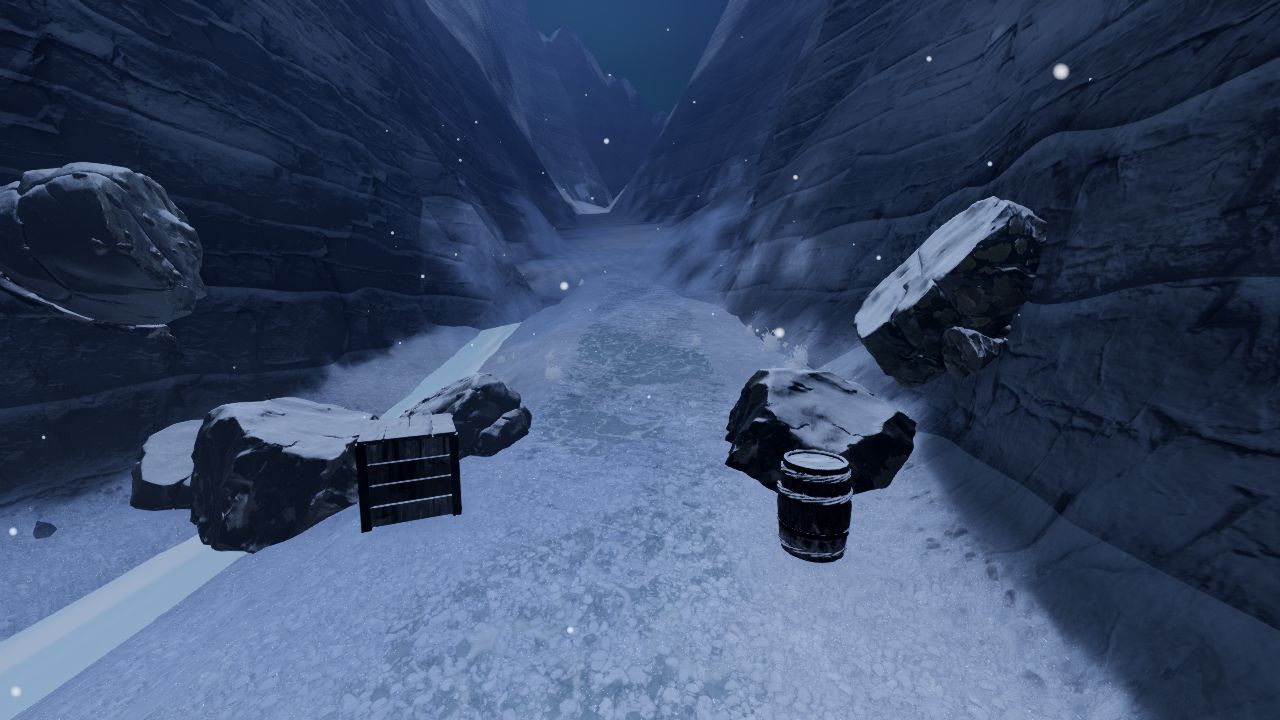
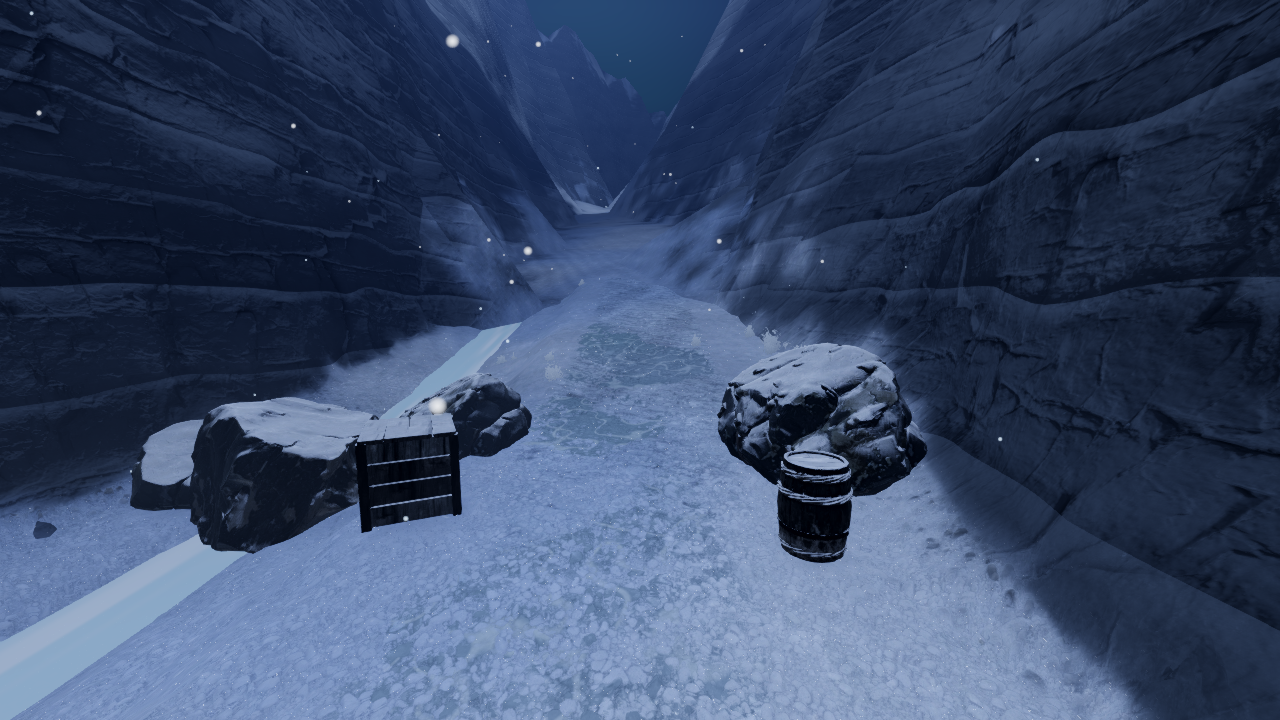
Retake the Tarn Steps screenshots with the flank boulders off the walls
Claude-Session: https://claude.ai/code/session_01F3vrUMACDVu2qRDoYvRsVc

diff --git a/docs/decisions/0015-progression-gating.md b/docs/decisions/0015-progression-gating.md
@@ -119,4 +119,4 @@ Each area def carries `way_on`: a list (one entry today) of
 - `gates_before_saltfell_pass_thaw`, `…_pass_far_thaw`, `…_bridge_thaw`: the pass as it was (bare turf), and the raised bridge on the skyline.
 - `gates_shut_saltfell_pass_thaw` / `_rime`, `gates_shut_saltfell_pass_far_thaw`: the dyke, the stones, the net, the track.
 - `gates_open_saltfell_pass_thaw`, `gates_open_saltfell_from_longhouse_door_thaw`: after the release.
-- `gates_shut_<region>_*` and `gates_open_<region>_*` for the Lowe, Kettle, Tarnhall, Thornwold and the Reach. The Kettle shots predate pulling its two outermost flank boulders down off the gorge walls.
+- `gates_shut_<region>_*` and `gates_open_<region>_*` for the Lowe, Kettle, Tarnhall, Thornwold and the Reach.
